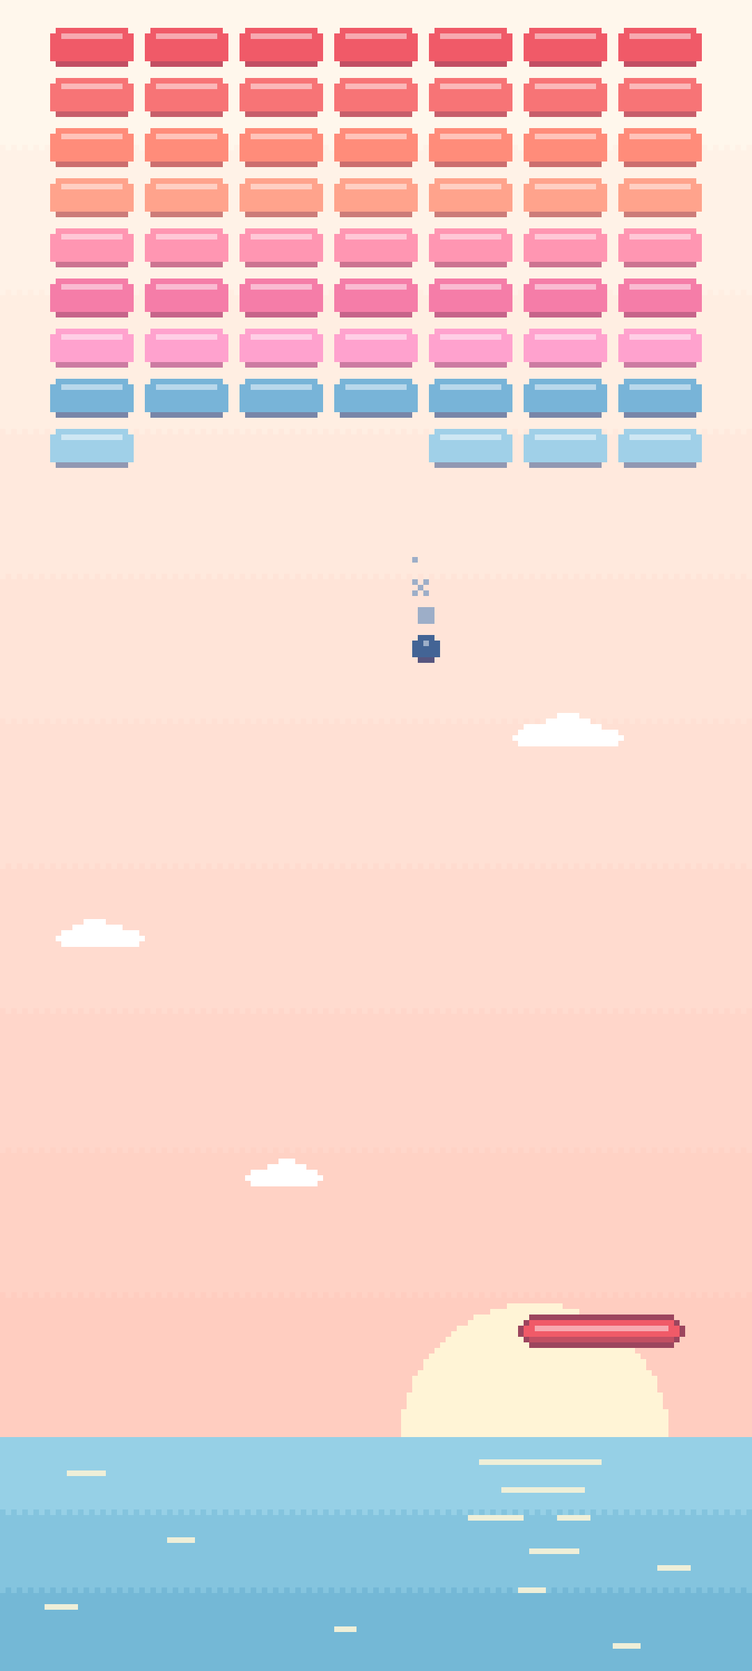
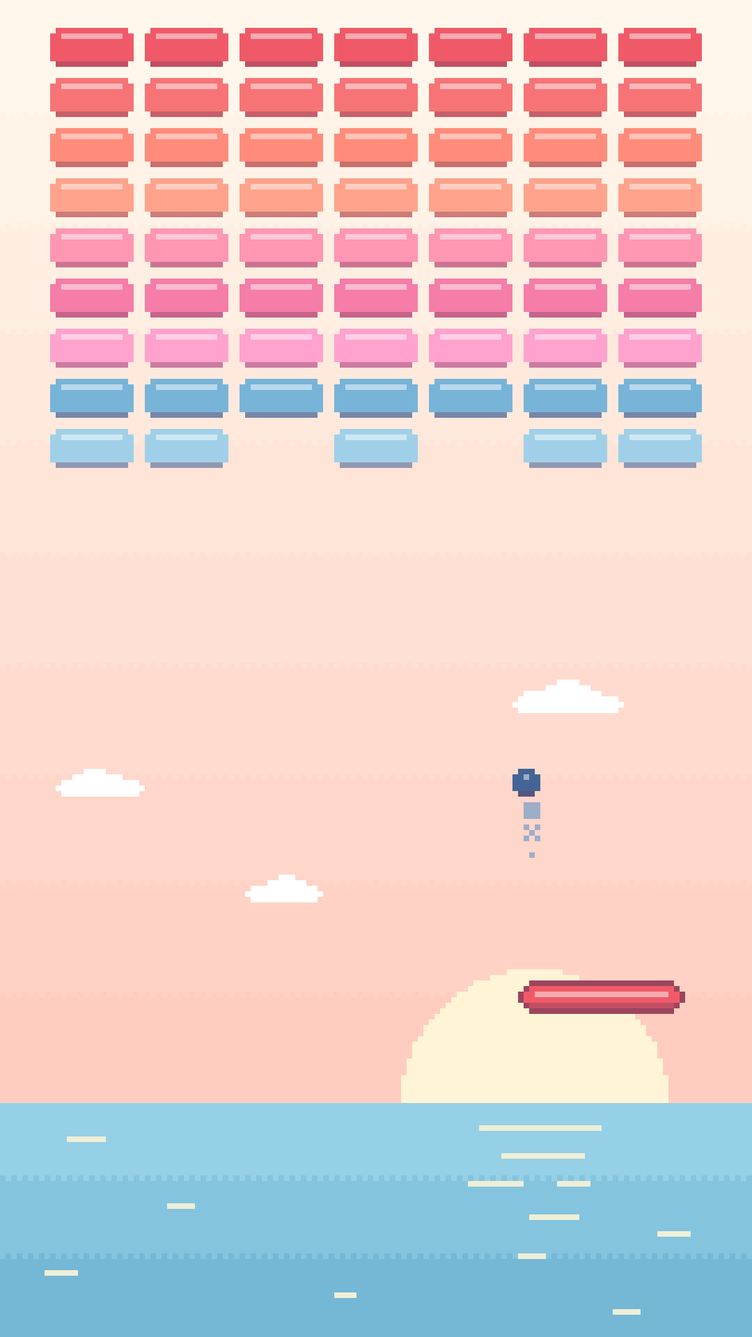
P3 review fixes: 9:16 Play screenshots, closed-test rule, listing and rating answers, Advertising ID, strict signed-bundle check, versionCode + 100, secrets and privacy wording; X36 proposed
Claude-Session: https://claude.ai/code/session_01KMmgQywdGGTYqgNVhtt1ky

diff --git a/docs/play/privacy-policy.html b/docs/play/privacy-policy.html
@@ -27,7 +27,7 @@
 <p>Nothing. The app does not collect, record or send any personal or device information. There are no accounts, no sign-in, no analytics, no advertising, no tracking and no crash reporting.</p>
 
 <h2>What the app stores</h2>
-<p>Nothing. The app writes no game state, scores, settings or identifiers to your device. Each game starts fresh every time you open it.</p>
+<p>No game data or personal data is stored. The app writes no game state, scores, settings or identifiers to your device, and each game starts fresh every time you open it. Like any Android app, the app's framework and the system WebView keep their own technical files on the device (for example, a cache and the installed version number); these hold nothing about you or your play.</p>
 
 <h2>Network</h2>
 <p>The app's games are inside the app. It does not request internet access and makes no network connections.</p>

diff --git a/privacy-policy.html b/privacy-policy.html
@@ -27,7 +27,7 @@
 <p>Nothing. The app does not collect, record or send any personal or device information. There are no accounts, no sign-in, no analytics, no advertising, no tracking and no crash reporting.</p>
 
 <h2>What the app stores</h2>
-<p>Nothing. The app writes no game state, scores, settings or identifiers to your device. Each game starts fresh every time you open it.</p>
+<p>No game data or personal data is stored. The app writes no game state, scores, settings or identifiers to your device, and each game starts fresh every time you open it. Like any Android app, the app's framework and the system WebView keep their own technical files on the device (for example, a cache and the installed version number); these hold nothing about you or your play.</p>
 
 <h2>Network</h2>
 <p>The app's games are inside the app. It does not request internet access and makes no network connections.</p>

diff --git a/tools/play-screenshots.py b/tools/play-screenshots.py
@@ -1,8 +1,11 @@
 #!/usr/bin/env python3
-"""Make the Play Store phone screenshots (row P3, PLAN §6f): 1080 x 2400 PNG, no alpha.
+"""Make the Play Store phone screenshots (row P3, PLAN §6f): 1080 x 1920 PNG (9:16), no alpha.
+
+Play refuses a screenshot whose long side is more than twice its short side, so 9:16, not a
+20:9 phone screen.
 
 Not shipped. Needs Python Playwright with Chromium and Pillow. Serves the repo,
-opens the real hub at 360 x 800 CSS px, device scale 3 (logical scale 8), taps
+opens the real hub at 360 x 640 CSS px, device scale 3 (logical scale 8), taps
 each card and plays with real touch events (CDP), then saves the screen into
 docs/play/screenshots/. Run: python3 tools/play-screenshots.py
 """
@@ -66,7 +69,7 @@ def save(page, name):
     path = OUT / f"{name}.png"
     page.screenshot(path=str(path))
     im = Image.open(path).convert("RGB")
-    assert im.size == (1080, 2400), im.size
+    assert im.size == (1080, 1920), im.size
     im.save(path, optimize=True)
     print("wrote", path.relative_to(ROOT))
 
@@ -84,7 +87,7 @@ def main():
     httpd, base = serve()
     with sync_playwright() as p:
         b = p.chromium.launch()
-        ctx = b.new_context(viewport={"width": 360, "height": 800}, device_scale_factor=3, is_mobile=True, has_touch=True,
+        ctx = b.new_context(viewport={"width": 360, "height": 640}, device_scale_factor=3, is_mobile=True, has_touch=True,
                             service_workers="block")
         page = ctx.new_page()
         page.goto(base + "index.html")
@@ -95,11 +98,11 @@ def main():
 
         # Bricks: the thumb down on the sea, sweeping slowly, the ball in flight.
         open_game(page, touch, "bricks")
-        touch.send("touchStart", 180, 740)
+        touch.send("touchStart", 180, 592)
         x = 180
         for i in range(160):
             x = 180 + 40 * ((i // 40) % 2 * 2 - 1) * ((i % 40) / 40)
-            touch.send("touchMove", x, 740)
+            touch.send("touchMove", x, 592)
             page.wait_for_timeout(25)
         save(page, "2-bricks")
         touch.send("touchEnd")
@@ -107,9 +110,9 @@ def main():
 
         # Catch: the thumb down, the boat drifting, things falling.
         open_game(page, touch, "catch")
-        touch.send("touchStart", 180, 740)
+        touch.send("touchStart", 180, 592)
         for i in range(200):
-            touch.send("touchMove", 160 + 40 * ((i // 50) % 2), 740)
+            touch.send("touchMove", 160 + 40 * ((i // 50) % 2), 592)
             page.wait_for_timeout(25)
         save(page, "3-catch")
         touch.send("touchEnd")
@@ -118,13 +121,13 @@ def main():
         # Putt: a shot being lined up (pull back and hold).
         open_game(page, touch, "putt")
         page.wait_for_timeout(1500)
-        touch.send("touchStart", 180, 600)
+        touch.send("touchStart", 180, 480)
         for i in range(1, 21):
-            touch.send("touchMove", 180 + i * 2.2, 600 + i * 6)
+            touch.send("touchMove", 180 + i * 2.2, 480 + i * 6)
             page.wait_for_timeout(16)
         page.wait_for_timeout(200)
         save(page, "4-putt")
-        touch.send("touchMove", 180, 604)  # back near the start: the shot is cancelled
+        touch.send("touchMove", 180, 484)  # back near the start: the shot is cancelled
         touch.send("touchEnd")
         back(page)
 
@@ -145,7 +148,7 @@ def main():
                 if bx is not None and abs((bx + bw / 2) - (top["x"] + top["w"] / 2) - aim * 4) < 2:
                     break
                 page.wait_for_timeout(10)
-            touch.tap(180, 400)
+            touch.tap(180, 320)
             page.wait_for_timeout(450)
         page.wait_for_timeout(600)
         save(page, "5-stack")

diff --git a/tests/check.py b/tests/check.py
@@ -1965,6 +1965,8 @@ def android_checks():
           and "rootProject.ext.targetSdkVersion" in gradle, "app/build.gradle: application id and namespace io.github.apcanario.rlx")
     check(not re.search(r"storePassword\s+['\"]|keyPassword\s+['\"]", gradle) and 'System.getenv("RLX_KEYSTORE_PATH")' in gradle,
           "release signing reads the environment only; no password in build.gradle")
+    check('versionCode(((System.getenv("RLX_VERSION_CODE") ?: "1") as Integer) + 100)' in gradle,
+          "versionCode is the CI run number + 100 (PLAN §6f)")
     man = (app / "android" / "app" / "src" / "main" / "AndroidManifest.xml").read_text()
     perms = re.findall(r"<uses-permission\s+android:name=\"([^\"]+)\"([^>]*)/>", man)
     kept = [n for n, rest in perms if 'tools:node="remove"' not in rest]
@@ -2036,8 +2038,10 @@ def android_checks():
     check(icon.size == (512, 512) and icon.mode in ("RGBA", "RGB") and fg.size == (1024, 500) and fg.format == "JPEG",
           f"Play icon 512x512 PNG ({icon.mode}), feature graphic 1024x500 JPEG")
     shots = sorted((play / "screenshots").glob("*.png"))
-    ok = [p.name for p in shots if Image.open(p).size == (1080, 2400) and (Image.open(p).mode == "RGB")]
-    check(4 <= len(shots) <= 6 and len(ok) == len(shots), f"4 to 6 phone screenshots, 1080x2400 RGB PNG, no alpha {ok}")
+    # Play: 2 to 8 phone screenshots, the long side at most twice the short side; ours are 9:16.
+    ok = [p.name for p in shots if Image.open(p).size == (1080, 1920) and Image.open(p).mode == "RGB"
+          and max(Image.open(p).size) <= 2 * min(Image.open(p).size)]
+    check(2 <= len(shots) <= 8 and len(ok) == len(shots), f"2 to 8 phone screenshots, 1080x1920 (9:16) RGB PNG, no alpha {ok}")
 
 
 def run_stack_sim():

diff --git a/docs/PLAY.md b/docs/PLAY.md
@@ -6,6 +6,8 @@ Never paste a password, a key or a keystore into a chat, an issue, a commit or a
 
 ## 1. Install the debug APK on your phone (testing)
 
+Downloading a run artifact needs a GitHub sign-in; the artifact comes as a zip, and artifacts expire (after 90 days by default), so take it from a recent run.
+
 1. Open the repo on GitHub, Actions, workflow "android", the latest green run on main.
 2. Under Artifacts download **rlx-debug-apk** (a zip). Unzip it: inside is `app-debug.apk`.
 3. Put it on the phone (download the zip on the phone itself, or copy the APK over USB or Drive).
@@ -42,18 +44,18 @@ Repo on GitHub, Settings, Secrets and variables, Actions, New repository secret.
 
 Delete rlx-upload.jks.b64 afterwards. From the next run on, the workflow also builds a signed **rlx-release-aab** artifact (`app-release.aab`). Without all four secrets it builds only the debug APK, and says so in the run summary. To make a run now: Actions, android, Run workflow, branch main.
 
-The secrets are only read by the workflow on this repo's main branch and manual runs; the keystore is written to the runner's temp folder and deleted at the end of the job.
+The release step reads the secrets only on a push to main and on a manual run. A manual run can be started on any branch by anyone with write access to the repo, so a branch with a changed workflow could read them. With a single owner this is low risk. Optionally, put the four secrets in a GitHub Environment (Settings, Environments) limited to the main branch and give the build job that environment. The keystore is written to the runner's temp folder and deleted at the end of the step.
 
 ## 4. Play Console (only you can do this)
 
-1. Create a Google Play developer account (play.google.com/console; one-off registration fee and identity verification; a personal account needs a closed test before production, see step 5).
+1. Create a Google Play developer account (play.google.com/console; one-off registration fee and identity verification; a personal account needs a closed test before production, see step 5). A personal account may also be asked to verify a physical Android device through the Play Console app.
 2. Create app: name **rlx**, default language English (US), Game, Free. Accept the declarations.
 3. App content: privacy policy URL https://apcanario.github.io/4rk4d3/privacy-policy.html (replace CONTACT_EMAIL in privacy-policy.html and docs/play/privacy-policy.html first, commit, push); Ads: no; App access: all functionality available; Content rating: docs/play/content-rating.md; Target audience: your choice (docs/play/data-safety.md has a note); Data safety: docs/play/data-safety.md.
 4. Main store listing: docs/play/listing.md, the icon, the feature graphic and the screenshots in docs/play/.
-5. Testing, Closed testing: create a track, add testers (an email list), upload `app-release.aab` from the latest run, roll out. A new personal account must run a closed test with a minimum number of testers for a minimum number of days before it may apply for production; the Console shows the current numbers.
+5. Testing, Closed testing: create a track, add testers (an email list), upload `app-release.aab` from the latest run, roll out. The rule: a personal developer account created after 13 November 2023 must run a closed test with at least 12 testers opted in continuously for the last 14 days before it can apply for production access. Organisation accounts are exempt. The test is per app. Testers must opt in and install through the track's Play opt-in link (a sideloaded APK does not count). The Console shows the current numbers if Google changes them.
 6. Then Production: create a release with the same or a newer .aab, roll out, and wait for review.
 
-Every later update: push to main, take the new `app-release.aab` (its versionCode is the run number, so it always goes up), upload it to a track.
+Every later update: push to main, take the new `app-release.aab` (its versionCode is the workflow's run number + 100, so it always goes up), upload it to a track. The run number belongs to the workflow file: renaming or recreating .github/workflows/android.yml starts it again at 1, and Play refuses a versionCode lower than or equal to one already uploaded. The + 100 (app/build.gradle) gives headroom; if the run number is ever reset, raise the offset above the last uploaded versionCode.
 
 ## 5. Optional emulator check (manual)
 

diff --git a/docs/CHANGELOG.md b/docs/CHANGELOG.md
@@ -354,3 +354,27 @@ Tests (full run after all changes): tests/check.py 1126 checks, 0 failures; bric
 Not verifiable headless: installing and playing the APK on a phone (immersive bars, the cutout, back, haptics feel, offline, fps, brightness); everything in X34.
 
 Only Pedro can do: create the Play developer account; make the upload key and add the four secrets (docs/PLAY.md); fill CONTACT_EMAIL in the privacy policy and listing; install the debug APK and play it; create the app in the Play Console, fill listing, Data safety, content rating, privacy URL; run the closed test; apply for production.
+
+## 2026-11-26: P3 review fixes
+
+Models that ran: main chat Sonnet 5.5; reviewer Opus 5.5 (claude-opus-5-5), fresh, which had not seen the build, found these; fixes applied in this chat by a builder agent, Opus 5.5 (claude-opus-5-5).
+
+Review findings and fixes:
+1. blocker, Play refuses screenshots whose long side is more than twice the short side; ours were 1080 x 2400 (2.22:1): tools/play-screenshots.py now renders at 360 x 640 CSS px, scale 3, 1080 x 1920 (9:16), touch points moved into the shorter screen; the five screenshots remade and looked at (hub grid, Bricks, Catch, Putt mid-aim, Stack). tests/check.py asks for 2 to 8 screenshots, 1080 x 1920 RGB, long side at most twice the short; listing.md, PLAN §6f Accept and README say so.
+2. should-fix, PLAY.md §4 step 5 now states the closed-test rule (personal accounts created after 13 Nov 2023: at least 12 testers opted in continuously for 14 days before applying for production; organisation accounts exempt; per app; testers install through the Play opt-in link); step 1 notes the possible physical-device check in the Play Console app.
+3. should-fix, listing.md claimed "Lift your thumb and the game waits" (Stack keeps sliding, Putt's ball rolls): now "Put it down whenever you like". The rest of the listing checked against PLAN §2, §6 to §6f; "nothing stored" made "no game or personal data stored" (item 9).
+4. should-fix, content-rating.md Violence: No (cartoon, abstract pixel creatures, no injury, blood or conflict), the "falling object" reasoning dropped; if the questionnaire's examples include cartoon animals in unrealistic conflict, Yes, mild cartoon or fantasy violence, not against humans, no blood: at worst PEGI 7 / ESRB Everyone.
+5. should-fix, data-safety.md: the Advertising ID declaration (apps targeting API 33+): No.
+6. should-fix, android.yml: `jarsigner -verify` passed an unsigned bundle. Now `-verify -strict` against the upload keystore and alias (plain -strict fails a self-signed upload key with "certificate chain is invalid", tried locally), and the output must contain "jar verified" (an unsigned jar exits 0 with "jar is unsigned"; tried locally; a bundle signed by another key fails).
+7. should-fix, versionCode was the bare run number, which resets if android.yml is renamed or recreated: app/build.gradle adds 100 (one line; static check added); PLAY.md §4 and PLAN §6f say why and that Play refuses a lower versionCode.
+8. should-fix, PLAY.md §3 secrets wording made accurate: push to main and manual runs, a manual run can start on any branch by anyone with write access; low risk with a single owner; optional GitHub Environment limited to main.
+9. should-fix, privacy policy (both copies, still identical): "no game data or personal data is stored"; the framework and WebView keep their own technical files. data-safety.md says the same; the answer stays No.
+10. nit, PLAY.md §1: artifact download needs a GitHub sign-in, comes as a zip, expires (90 days by default).
+- Proposed X36: pin actions by SHA, validate the Gradle wrapper, an API 36 smoke run for predictive back.
+
+Tests: tests/check.py 1127 checks, 0 failures; bricks-sim 219, catch-sim 181, putt-sim 71, stack-sim 109, haptics-native 19, 0 failures.
+
+No shipped web file changed (docs, screenshots, the privacy policy, build.gradle and the workflow are not in sw.js FILES), so the sw.js cache is unchanged.
+
+P3 stays in the Queue until Pedro's device check (PLAN §6f).
+

diff --git a/README.md b/README.md
@@ -58,7 +58,7 @@ Install: open the Pages URL in Chrome for Android, then menu, Add to home screen
 
 - `tools/make-icons.py`: redraws `icons/` from the approved beach-sunset art in `tools/rlx_art.py` (no lettering). Needs Pillow.
 - `tools/build-www.mjs`: copies the shipped files (`sw.js` FILES) into `android-app/www` for the Android app.
-- `tools/play-screenshots.py`: makes the Play screenshots (1080 x 2400) from the real hub and games with Playwright.
+- `tools/play-screenshots.py`: makes the Play screenshots (1080 x 1920, 9:16) from the real hub and games with Playwright.
 - `tools/android-smoke.sh`, `tools/android-smoke-check.py`: the CI emulator smoke test of the debug APK (hub, a card, back, back out).
 - `tools/bump-sw-version.sh`: bumps the service worker cache version.
 - `tests/bricks-sim.mjs`: rows B1, B2 and X1 in Node (`node tests/bricks-sim.mjs`, no dependencies). Runs `physics.js` with the shipped `CONFIG` for 10 simulated minutes on three screen geometries with a paddle tracking the ball, plus a lazy thumb that misses and a 2400 px/s stress run: no NaN, ball in bounds, speed within 80 to 125 and changed only at paddle bounces, never under 20 degrees from horizontal, no swept path through a brick, never inside the paddle, the ball moving every step, brick count bounded, the field never deeper than 12 rows or near the paddle, no stuck ball, no score in the state. Jittery and flick thumbs (200 x 30 s each) never put the ball inside the paddle; a still thumb at five positions pops beyond its own column within 60 s. Unit checks for paddle angles, serve alternation, the loop nudge, the 12-row fade, colour cycling, the miss and respawn, a resize, and the haptic rules through `shared/haptics.js` (always on). Row B2: a 15-minute run with the session clock driving the dusk slowdown and a thumb that misses now and then (speed at 80 from minute 12), the pace rules, the session clock (in memory, nothing stored; paused time, 12 minutes to dusk, the reset after 5 minutes hidden, a device clock set backwards, one reset seen once by a game), a serve after minute 12 at exactly 80, the 10 flat scene steps, and the B4 contrast standard (`tests/contrast.mjs`) on logical heights 240, 300 and 400 at sunset and every step: paddle and ball WCAG contrast >= 3 (fill or 1 px edge), brick fills CIE76 delta E >= 20, the nine brick colours pairwise delta E >= 8, and checks that `bricks.js` and `pixel.js` draw with those colours, that `bricks.js` draws no pause marker (no ring or chevrons; `draw()` does not read the pause mode; row X33), no text, and stores nothing.

diff --git a/docs/PLAN.md b/docs/PLAN.md
@@ -634,7 +634,7 @@ Layout of /android-app/
 Build and release
 1. node tools/build-www.mjs, then in android-app: npm ci, npx cap sync android, then ./gradlew assembleDebug (a debug APK) or bundleRelease (the .aab).
 2. CI does all of it (.github/workflows/android.yml) on every push to main that touches the app or the shipped files, and on demand: a debug APK as a run artifact; a signed release .aab as well when the four signing secrets exist (RLX_KEYSTORE_B64, RLX_KEYSTORE_PASSWORD, RLX_KEY_ALIAS, RLX_KEY_PASSWORD). On a manual run only, a smoke job boots an Android emulator, installs the debug APK, opens the hub, a game and back, and saves screenshots (docs/PLAY.md §5). The APK carries two empty Cordova stubs that Capacitor adds (cordova.js, cordova_plugins.js); no page loads them.
-3. versionCode is the CI run number; versionName is 1.0.<run number>.
+3. versionCode is the CI run number + 100 (app/build.gradle; headroom if the workflow is renamed or recreated, which resets the run number, docs/PLAY.md §4); versionName is 1.0.<run number>.
 4. Release: Pedro uploads the .aab to a closed test in the Play Console, then production (docs/PLAY.md).
 
 Accept
@@ -644,7 +644,7 @@ Accept
 - haptics.js: the native plugin when present (the hub's or the page's own), navigator.vibrate otherwise, the 40 ms limit and tick lengths unchanged (Node tests with a fake plugin and the stub).
 - CI builds a debug APK, green, and checks the APK: package, label rlx, minSdk 24, targetSdk 36, VIBRATE the only user permission, its web files equal to sw.js FILES.
 - The manual smoke job (run once in the build, 2026-11-26): on an Android 15 emulator the hub draws, a card opens its game, back returns to the hub, back again leaves the app, and dropping a Stack block logs an 8 ms vibration from the app.
-- docs/play/: listing, Data safety, content rating, privacy policy, 512 px icon, feature graphic, 4 to 6 screenshots 1080 x 2400.
+- docs/play/: listing, Data safety, content rating, privacy policy, 512 px icon, feature graphic, 2 to 8 phone screenshots (Play: the long side at most twice the short side), ours 9:16, 1080 x 1920.
 - Not verifiable headless (P3's device check, with X34): installing and playing the APK on Pedro's phone: immersive full screen and the transient bars, the cutout, one back from a game to the hub and one more out of the app, haptics in every game from the first event, offline, fps, outdoors brightness.
 
 Only Pedro can do

diff --git a/docs/play/content-rating.md b/docs/play/content-rating.md
@@ -6,7 +6,7 @@ Answers for the app as built: four casual games (Bricks, Catch, Putt, Stack), pi
 
 | Question | Answer | Why |
 |---|---|---|
-| Violence (any, realistic, cartoon or fantasy) | No | Bricks pop, a fish eats a spiky sea urchin or jellyfish in Catch with a few pixel bits; no characters are hurt, no blood, no weapons. If Play asks specifically about "animals or fantasy characters harmed", answer No: the fish eats a falling object; there is no injury shown. |
+| Violence (any, realistic, cartoon or fantasy) | No | Cartoon, abstract pixel creatures: bricks pop, and in Catch a leaping fish eats a falling sea urchin, jellyfish or ink blob (PLAN §6b). No injury, no blood, no weapons, no conflict between characters. If the questionnaire's examples of violence include cartoon animals in unrealistic conflict, answer Yes instead: cartoon or fantasy violence, mild, not against humans, no blood. |
 | Fear, horror | No | |
 | Sexuality, nudity | No | |
 | Language, crude humour | No | The app shows no text at all. |
@@ -18,4 +18,4 @@ Answers for the app as built: four casual games (Bricks, Catch, Putt, Stack), pi
 | Unrestricted internet access (web browser, search) | No | The app has no network permission. |
 | Miscellaneous (rewards real money, contests) | No | |
 
-Expected result: the lowest rating in each region (for example IARC 3+, PEGI 3, ESRB Everyone). Play shows the result before it applies; if it differs, check the Violence answers first.
+Expected result: the lowest rating in each region (for example IARC 3+, PEGI 3, ESRB Everyone); with the Yes answer on cartoon violence above, at worst PEGI 7 / ESRB Everyone. Play shows the result before it applies; if it differs, check the Violence answers first.

diff --git a/docs/play/data-safety.md b/docs/play/data-safety.md
@@ -12,6 +12,7 @@ Play Console, Policy and programs, App content, Data safety. Answers for the app
 ## Other declarations in App content (same place)
 
 - Ads: **No, my app does not contain ads.**
+- Advertising ID (asked of apps that target API 33 or higher): **No, my app does not use an advertising ID.** The app has no ads or analytics SDK and does not declare the com.google.android.gms.permission.AD_ID permission.
 - App access: **All functionality is available without special access** (no login).
 - Government app: No. Financial features: None. Health: No health features.
 - In-app purchases: none (the app is free with nothing to buy).
@@ -22,4 +23,4 @@ Play Console, Policy and programs, App content, Data safety. Answers for the app
 
 - Permissions in the merged manifest: VIBRATE only (tests/check.py and the CI build check it). No INTERNET permission, so the app cannot send anything.
 - No third-party SDK: the app is Capacitor's WebView shell and its own plugin; no analytics, crash reporting, ads or login library.
-- Nothing stored: the games write nothing to storage (PLAN §2; tests/check.py checks storage is empty after play). Android's backup is off (allowBackup false).
+- No game data or personal data stored: the games write nothing to storage (PLAN §2; tests/check.py checks storage is empty after play). Capacitor and the system WebView keep their own technical files (the last installed binary version, the WebView cache); they hold no user data and nothing leaves the device, so the answer stays No. Android's backup is off (allowBackup false).

diff --git a/docs/play/listing.md b/docs/play/listing.md
@@ -29,19 +29,19 @@ Paste these into the Play Console (Grow users, Store presence, Main store listin
     Putt: pull back and release to bank a ball off the walls into the hole. Every course is new.
     Stack: tap to drop each sliding block onto the tower as it sinks slowly into the sea.
 
-    There is nothing to win or lose. No score, no levels, no timers, no lives, no streaks and no notifications. Lift your thumb and the game waits. Close it whenever you like; every game starts fresh.
+    There is nothing to win or lose. No score, no levels, no timers, no lives, no streaks and no notifications. Put it down whenever you like; every game starts fresh.
 
     As you play, the sunset slowly turns to dusk and the games ease down, so stopping feels natural.
 
     Light haptic taps, no sound. Pixel art in soft sunset colours.
 
-    No ads. No accounts. No in-app purchases. No data collected, nothing stored, no internet needed.
+    No ads. No accounts. No in-app purchases. No data collected, no game or personal data stored, no internet needed.
 
 ## Graphics
 
 - App icon: docs/play/ic-play-512.png (512 x 512, 32-bit PNG)
 - Feature graphic: docs/play/feature-graphic-1024x500.jpg (1024 x 500 JPEG)
-- Phone screenshots: docs/play/screenshots/ (1080 x 2400 PNG, in this order: hub, Bricks, Catch, Putt, Stack)
+- Phone screenshots: docs/play/screenshots/ (1080 x 1920 PNG, 9:16, in this order: hub, Bricks, Catch, Putt, Stack)
 
 ## Not claimed, on purpose
 

diff --git a/docs/BACKLOG.md b/docs/BACKLOG.md
@@ -36,3 +36,4 @@ Rows are defined in docs/PLAN.md. Nothing is built that is not a row here. A don
 
 - X34 Device check of the low grid hub (card size and tap comfort, keel card edge too heavy or not, sun and sky look), and of what Pedro's report did not cover (PLAN §8 list); in the browser or in the P3 app
 - X35 Remove shared/font.js: no page loads it since H2 and, since P3, tools/make-icons.py draws the icons from tools/rlx_art.py; drop it from sw.js FILES and retire the font checks in tests/check.py
+- X36 P3 hardening: pin actions by SHA, validate the Gradle wrapper, an API 36 smoke run for predictive back
